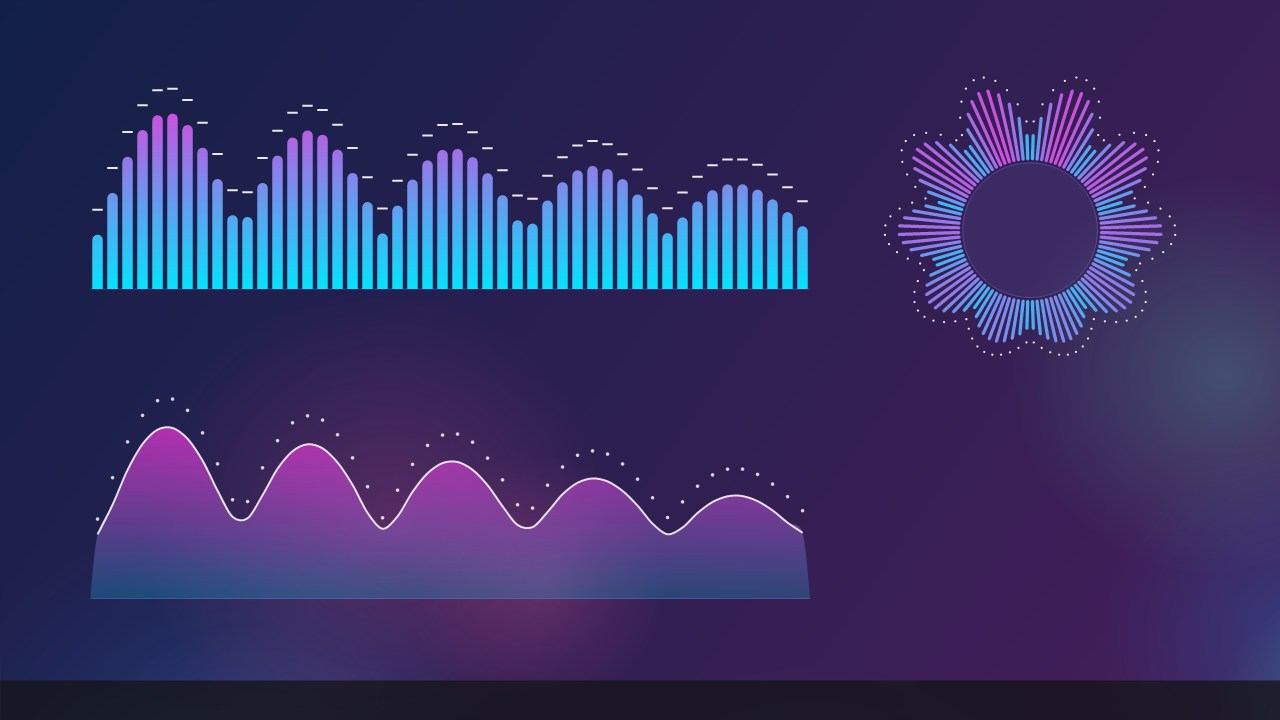
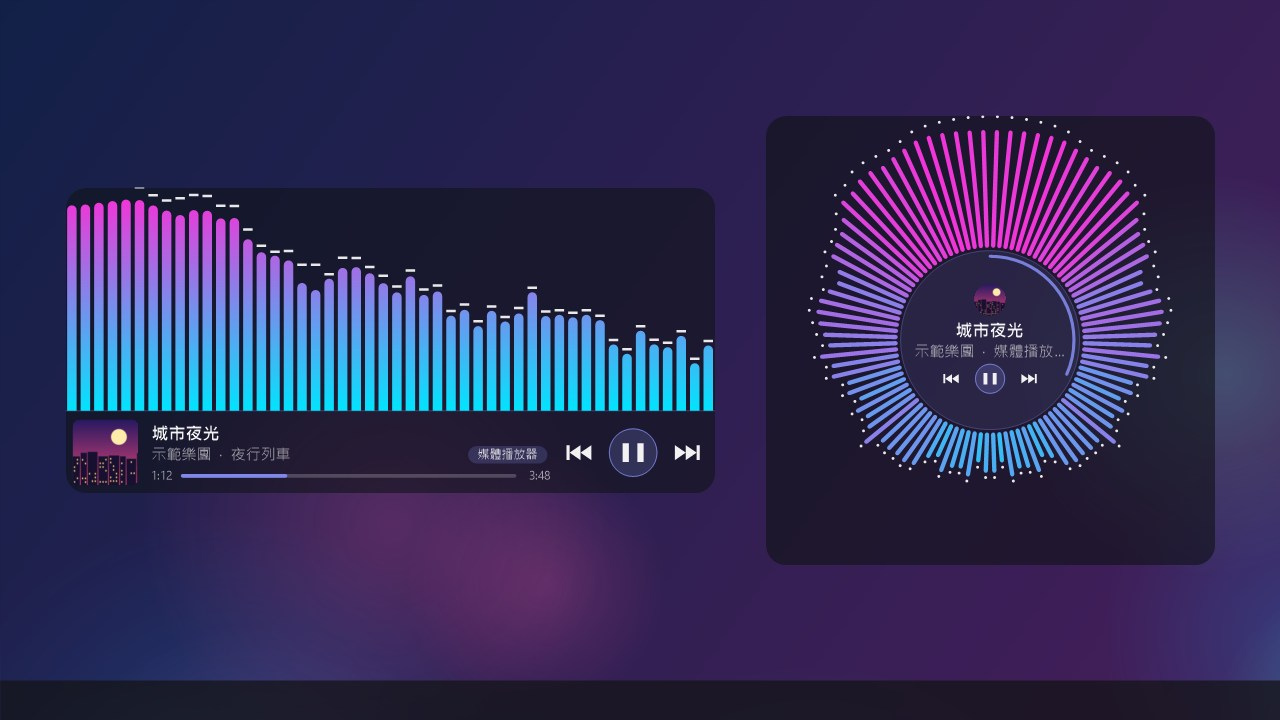
主程式 1.4.7（第一次使用的教學、啟動歡迎動畫、標題列版本號、最小安裝包內含桌面時鐘）；音訊等化器市集範例圖改成含媒體播放介面的版本（原本的三種樣式圖移到第 2 張）；README：最小安裝包改為「主程式與桌面時鐘」、安裝步驟加上使用教學

diff --git a/README.md b/README.md
@@ -9,7 +9,7 @@ Windows 的桌面小工具中心：時鐘、系統監視器、行事曆、持股
 
 | 檔案 | 大小 | 說明 |
 |---|---|---|
-| `WidgetHost-<版本>-minimal.zip` | 約 0.4 MB | 只有主程式。第一次啟動會打開市集，挑需要的小工具安裝 |
+| `WidgetHost-<版本>-minimal.zip` | 約 0.4 MB | 主程式與桌面時鐘。其他小工具到「設定 → 主程式 → 市集」挑選安裝 |
 | `WidgetHost-<版本>-full.zip` | 約 7 MB | 含全部小工具。公司網路連不到 GitHub 時用這個 |
 | `WidgetHost-<版本>-standalone.zip` | 約 53 MB | 免安裝版：含全部小工具＋ .NET 10 執行環境。電腦沒有 .NET 10、或沒有系統管理員權限時用這個 |
 
@@ -21,6 +21,7 @@ Windows 的桌面小工具中心：時鐘、系統監視器、行事曆、持股
 1. zip 按右鍵 → 內容 → 勾選「解除封鎖」→ 確定。
 2. 解壓縮到任意資料夾（例如 `%LOCALAPPDATA%\WidgetHost`），不需要系統管理員權限。
 3. 執行 `WidgetHost.exe`。程式目前沒有數位簽章，若出現「Windows 已保護您的電腦」，請按「其他資訊」→「仍要執行」。
+4. 第一次啟動會問要不要看使用教學（約一分鐘，跟著發亮的地方點：新增桌面時鐘、選取、換樣式、逛市集），之後可以從系統匣選單的「使用教學」再看一次。
 
 更多說明（設定位置、可攜模式、移除方式）請看 zip 裡的 `README.txt`。
 
